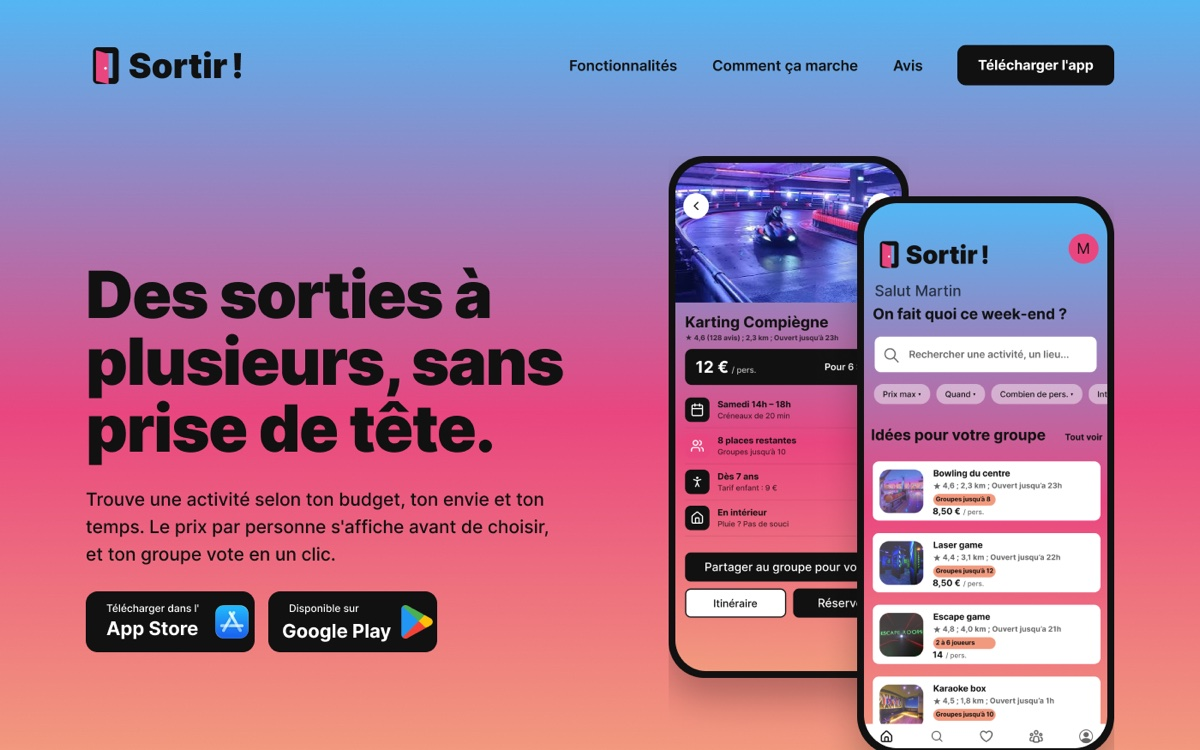
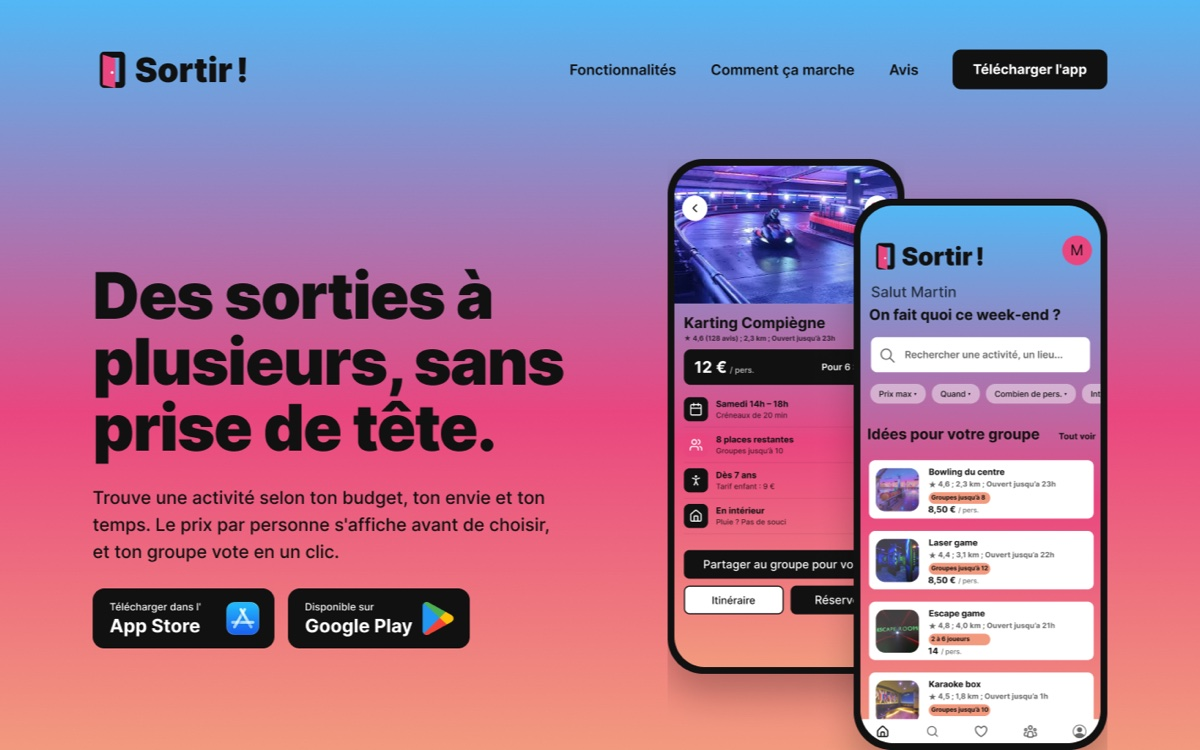
Ajouter une galerie d'images à Novae et mettre à jour l'image de Sortir !
Novae montre maintenant le maillot de face et de dos, la bannière et le logo en vignettes cliquables. Les projets peuvent avoir plusieurs images, aussi depuis l'administration.

diff --git a/asset/css/styles.css b/asset/css/styles.css
@@ -921,6 +921,45 @@ summary:focus-visible {
     transform: scale(1.06);
 }
 
+/* Vignettes sous l'image quand le projet en a plusieurs */
+.project__thumbs {
+    display: grid;
+    grid-template-columns: repeat(auto-fit, minmax(60px, 1fr));
+    gap: 10px;
+    margin: 12px 0 0;
+    padding: 0;
+    list-style: none;
+}
+
+.project__thumb {
+    display: block;
+    width: 100%;
+    padding: 0;
+    border: 2px solid var(--ligne);
+    background: var(--nuit-3);
+    cursor: pointer;
+    opacity: 0.6;
+    transition: opacity 0.3s, border-color 0.3s;
+}
+
+.project__thumb img {
+    display: block;
+    width: 100%;
+    aspect-ratio: 16 / 10;
+    object-fit: cover;
+}
+
+.project__thumb:hover,
+.project__thumb:focus-visible {
+    opacity: 1;
+    border-color: var(--violet);
+}
+
+.project__thumb[aria-pressed="true"] {
+    opacity: 1;
+    border-color: var(--jaune);
+}
+
 /* Planche d'identité Menta One (en attendant l'image du logo) */
 .brand {
     display: flex;

diff --git a/asset/js/main.js b/asset/js/main.js
@@ -389,6 +389,19 @@ formulaire.addEventListener('submit', async (e) => {
     boutonEnvoi.textContent = texteBouton;
 });
 
+// ===== Projets : un clic sur une vignette l'affiche en grand =====
+document.querySelectorAll('.project__thumb').forEach((vignette) => {
+    vignette.addEventListener('click', () => {
+        const media = vignette.closest('.project__media');
+        const grande = media.querySelector('.project__img img');
+        grande.src = vignette.dataset.src;
+        grande.alt = vignette.dataset.alt;
+        media.querySelectorAll('.project__thumb').forEach((autre) => {
+            autre.setAttribute('aria-pressed', autre === vignette ? 'true' : 'false');
+        });
+    });
+});
+
 // ===== Footer : année et heure à Noyon =====
 document.getElementById('annee').textContent = new Date().getFullYear();
 
